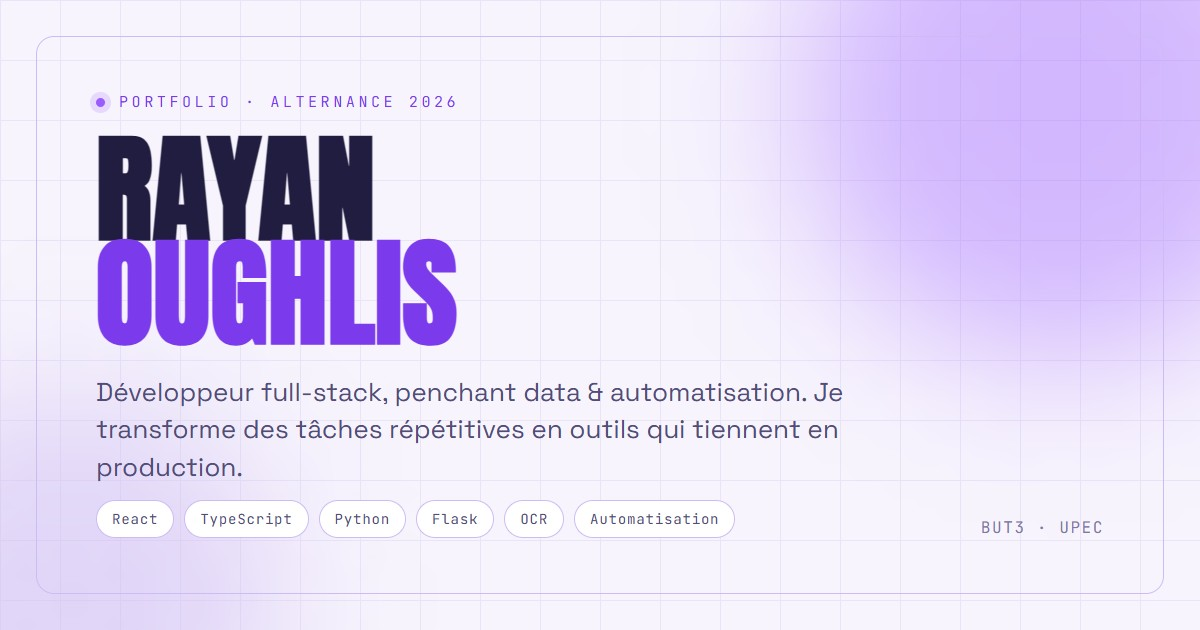
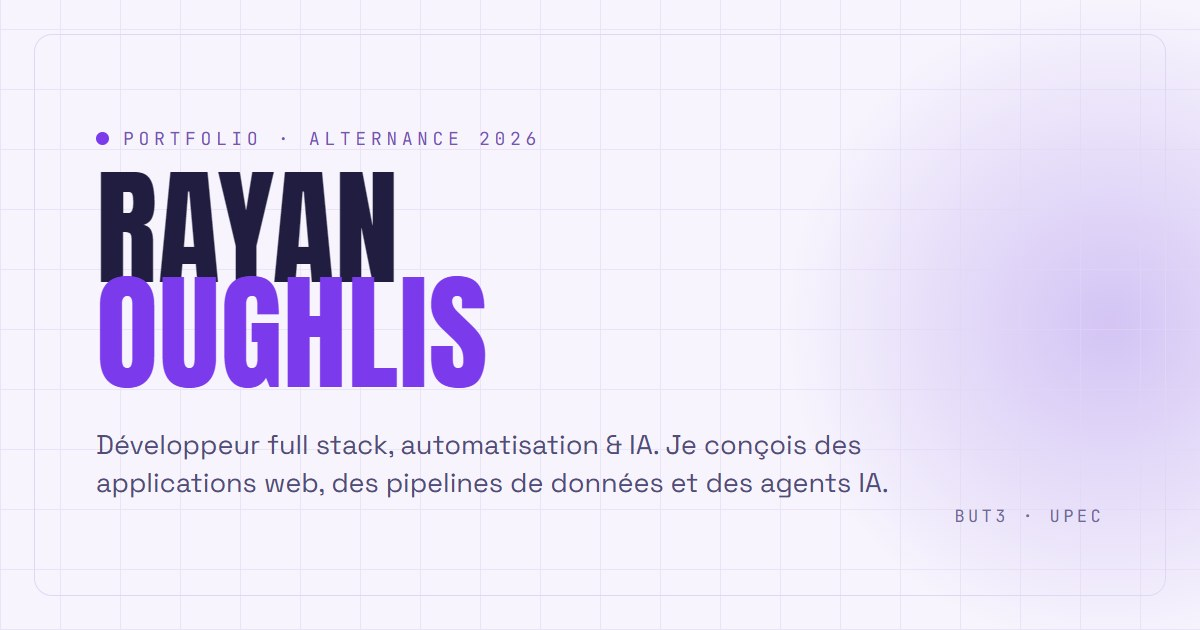
style(og): refaire la carte de partage, avec sa source
La carte annoncait encore 'penchant data & automatisation', l'accroche
d'avant, et alignait six pastilles de technologies qui ne se lisent pas a la
taille ou LinkedIn ou Slack affichent une vignette. Elle dit maintenant la
meme chose que le hub et que les donnees structurees.

Surtout, elle n'avait pas de source : c'etait un JPEG plat, donc corriger un
mot imposait de refaire la carte a la main. tools/og/index.html est le
gabarit, il importe fonts.css et tokens.css du site, les couleurs et les
polices ne sont donc jamais recopiees. Le README dit comment regenerer.

Le texte de remplacement de og:image decrivait l'ancienne accroche lui aussi.

diff --git a/tools/og/index.html b/tools/og/index.html
@@ -1,0 +1,134 @@
+<!doctype html>
+<html lang="fr">
+  <head>
+    <meta charset="UTF-8" />
+    <title>Carte de partage</title>
+    <script type="module">
+      import '/src/styles/fonts.css';
+      import '/src/styles/tokens.css';
+    </script>
+    <style>
+      /* Le gabarit fait exactement 1200 x 630, la taille attendue par
+         Open Graph et Twitter. Le rendu est capture a l'echelle 1. */
+      html,
+      body {
+        margin: 0;
+        padding: 0;
+      }
+      .carte {
+        position: relative;
+        width: 1200px;
+        height: 630px;
+        overflow: hidden;
+        background: var(--bg);
+        color: var(--ink);
+        font-family: var(--font-body);
+        box-sizing: border-box;
+        padding: 78px 96px;
+        display: flex;
+        flex-direction: column;
+        justify-content: center;
+      }
+      /* Halo violet en haut a droite, comme sur le hub. */
+      .carte::before {
+        content: '';
+        position: absolute;
+        inset: -20% -30% auto auto;
+        width: 900px;
+        height: 900px;
+        background: radial-gradient(closest-side, var(--violet-pale), transparent 72%);
+        opacity: 0.85;
+      }
+      /* Trame millimetree, tres pale : elle donne le grain du site. */
+      .carte::after {
+        content: '';
+        position: absolute;
+        inset: 0;
+        background:
+          repeating-linear-gradient(0deg, var(--line) 0 1px, transparent 1px 60px),
+          repeating-linear-gradient(90deg, var(--line) 0 1px, transparent 1px 60px);
+        opacity: 0.55;
+      }
+      .cadre {
+        position: absolute;
+        inset: 34px;
+        border: 1px solid var(--line);
+        border-radius: 18px;
+      }
+      .contenu {
+        position: relative;
+        z-index: 1;
+      }
+      .kicker {
+        display: flex;
+        align-items: center;
+        gap: 14px;
+        margin: 0 0 26px;
+        font-family: var(--font-mono);
+        font-size: 18px;
+        letter-spacing: 0.26em;
+        text-transform: uppercase;
+        color: var(--violet-sub);
+      }
+      .kicker::before {
+        content: '';
+        width: 13px;
+        height: 13px;
+        border-radius: 50%;
+        background: var(--violet);
+      }
+      .nom {
+        margin: 0;
+        font-family: var(--font-display);
+        font-weight: 400;
+        font-size: 128px;
+        line-height: 0.82;
+        letter-spacing: 0.005em;
+        text-transform: uppercase;
+      }
+      .nom span {
+        display: block;
+      }
+      .nom .accent {
+        color: var(--violet);
+      }
+      .accroche {
+        margin: 40px 0 0;
+        max-width: 800px;
+        font-size: 27px;
+        line-height: 1.42;
+        color: var(--ink-muted);
+        /* Sans equilibrage, la derniere ligne se reduisait a deux mots
+           orphelins sous un pave pleine largeur. */
+        text-wrap: balance;
+      }
+      .signature {
+        position: absolute;
+        right: 96px;
+        bottom: 86px;
+        z-index: 1;
+        font-family: var(--font-mono);
+        font-size: 17px;
+        letter-spacing: 0.2em;
+        color: var(--ink-faint);
+      }
+    </style>
+  </head>
+  <body>
+    <div class="carte">
+      <div class="cadre"></div>
+      <div class="contenu">
+        <p class="kicker">Portfolio &middot; Alternance 2026</p>
+        <h1 class="nom">
+          <span>Rayan</span>
+          <span class="accent">Oughlis</span>
+        </h1>
+        <p class="accroche">
+          Développeur full stack, automatisation &amp; IA. Je conçois des applications web, des
+          pipelines de données et des agents IA.
+        </p>
+      </div>
+      <p class="signature">BUT3 &middot; UPEC</p>
+    </div>
+  </body>
+</html>

diff --git a/index.html b/index.html
@@ -27,7 +27,7 @@
     <meta property="og:image:height" content="630" />
     <meta
       property="og:image:alt"
-      content="Carte de partage du portfolio de Rayan Oughlis, développeur full-stack."
+      content="Carte de partage du portfolio de Rayan Oughlis, développeur full stack, automatisation et IA."
     />
 
     <meta name="twitter:card" content="summary_large_image" />

diff --git a/tools/og/README.md b/tools/og/README.md
@@ -1,0 +1,22 @@
+# Carte de partage
+
+`index.html` est la source de `public/og.jpg`, l'image que LinkedIn, Slack ou
+iMessage affichent quand le lien du site est colle quelque part. Le fichier
+livre est un JPEG plat : sans cette source, la moindre correction de texte
+oblige a refaire la carte a la main.
+
+## Regenerer
+
+1. `npm run dev`
+2. Ouvrir `http://localhost:5173/tools/og/index.html`
+3. Capturer la zone `.carte` a l'echelle 1, soit exactement 1200 x 630
+4. Enregistrer en JPEG sous `public/og.jpg`
+
+Le gabarit importe `src/styles/fonts.css` et `src/styles/tokens.css` : les
+polices et les couleurs sont celles du site, jamais des valeurs recopiees.
+
+## A verifier avant de remplacer l'image
+
+Le texte doit dire la meme chose que l'accroche du hub et que les donnees
+structurees de `index.html`. Une carte de partage qui annonce autre chose que
+la page est le genre d'ecart que personne ne voit pendant des mois.
